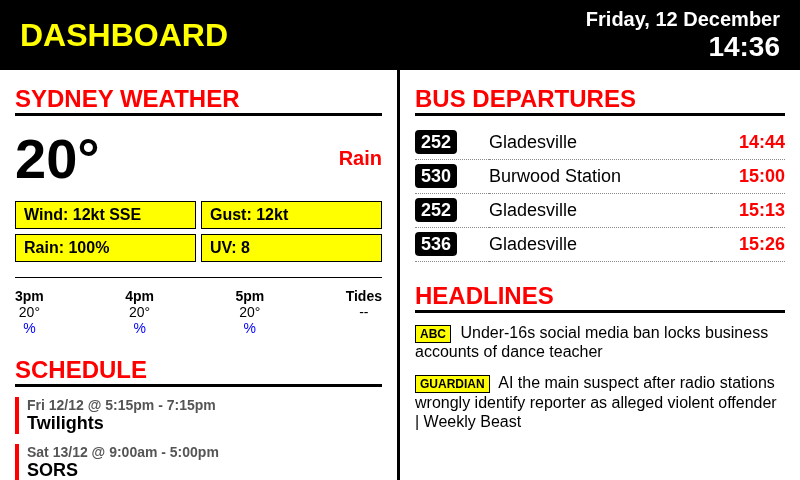
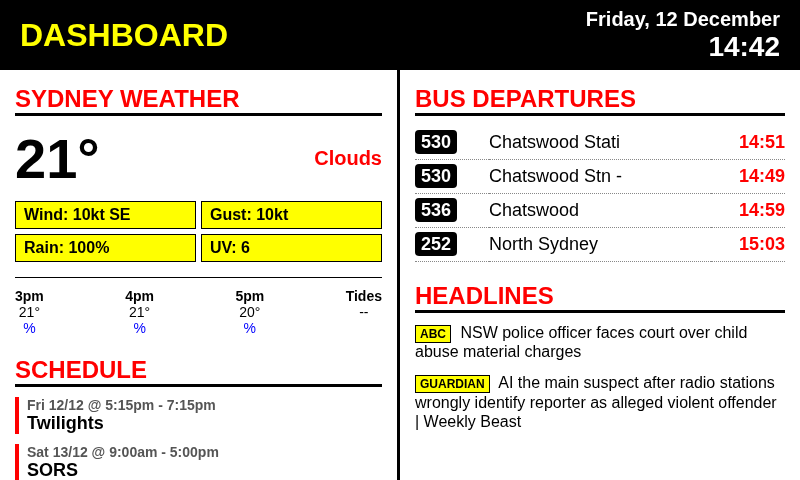
Bus Station fix

diff --git a/config.py b/config.py
@@ -16,7 +16,7 @@ OWM_API_KEY = os.getenv("OWM_API_KEY", "")
 # --- TRANSPORT (TfNSW) ---
 # Get API key: https://opendata.transport.nsw.gov.au/
 TFNSW_API_KEY = os.getenv("TFNSW_API_KEY", "")
-BUS_STOP_ID = "206663" # Example: Central Station
+BUS_STOP_ID = "206663" # Burns Bay Rd After Penrose St
 
 # --- CALENDAR (ICS / iCAL) ---
 # Google: Settings -> Secret Address in iCal format
